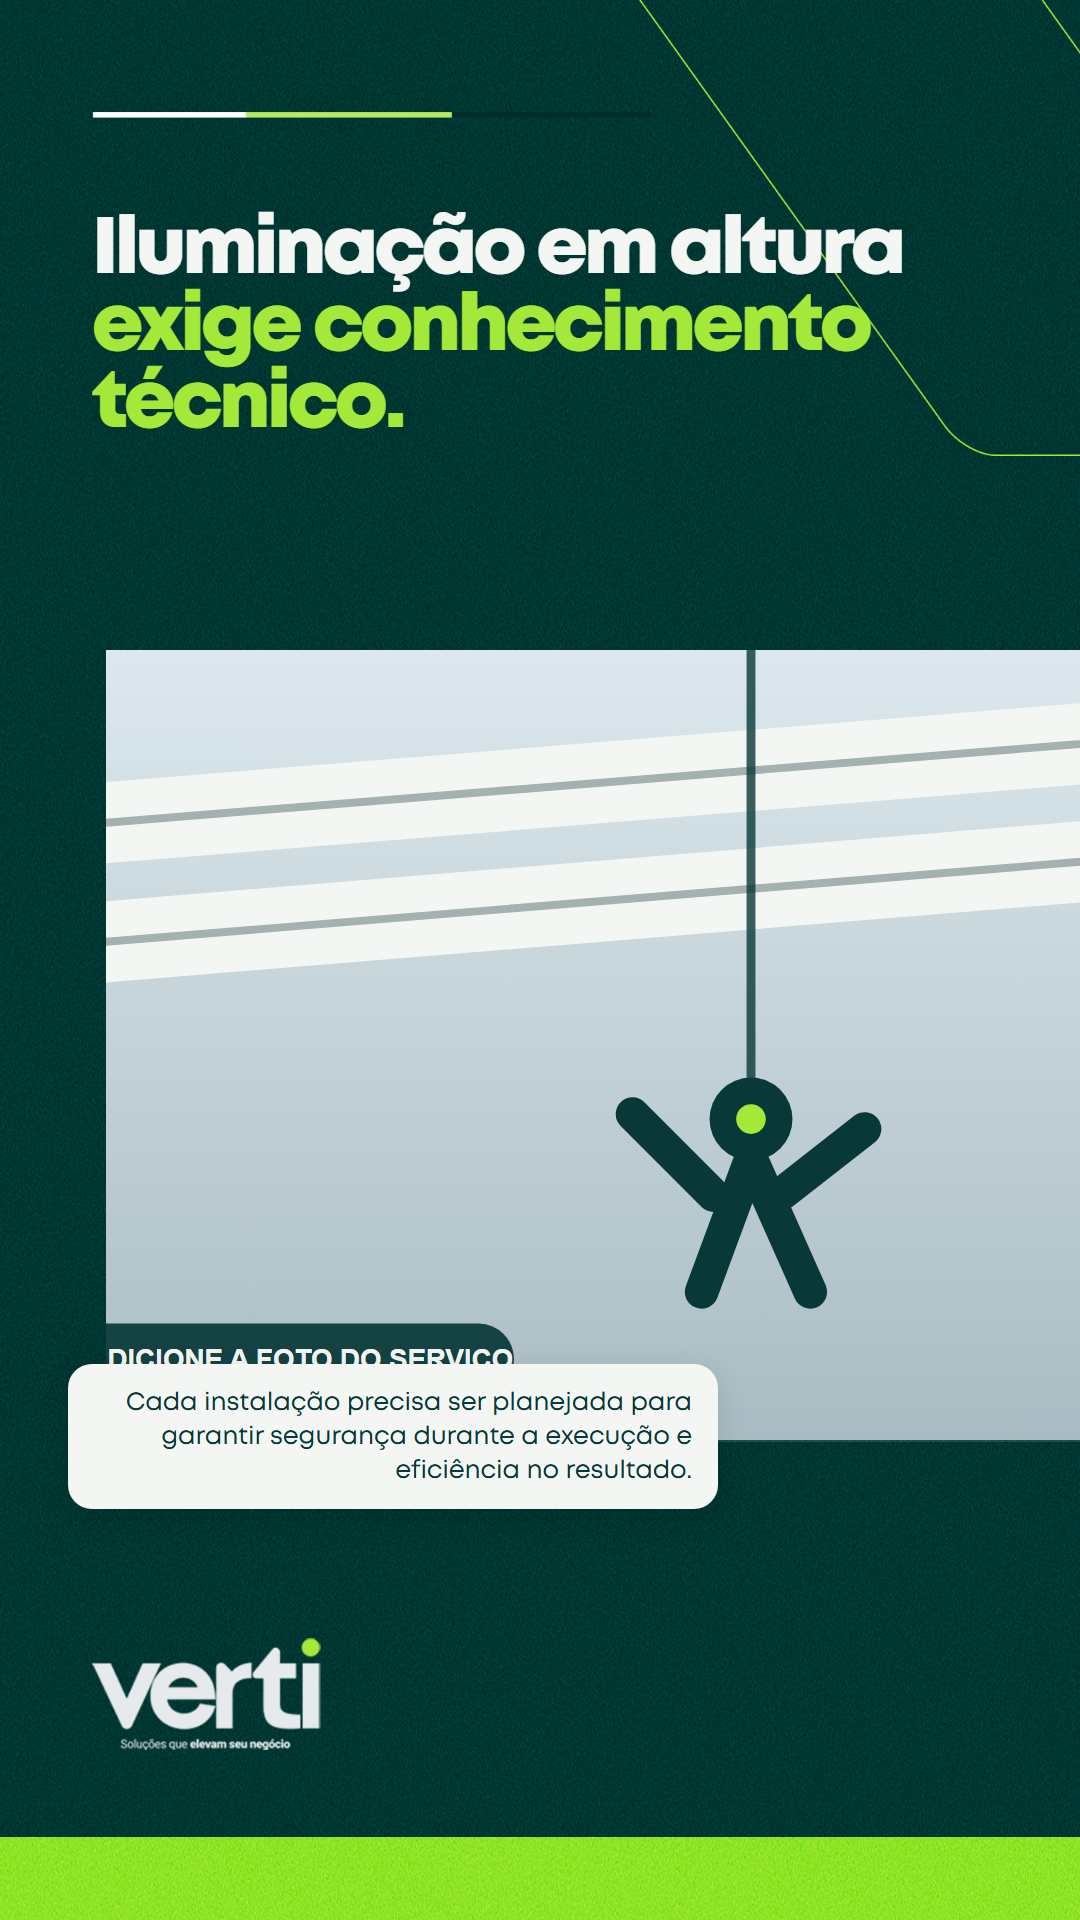
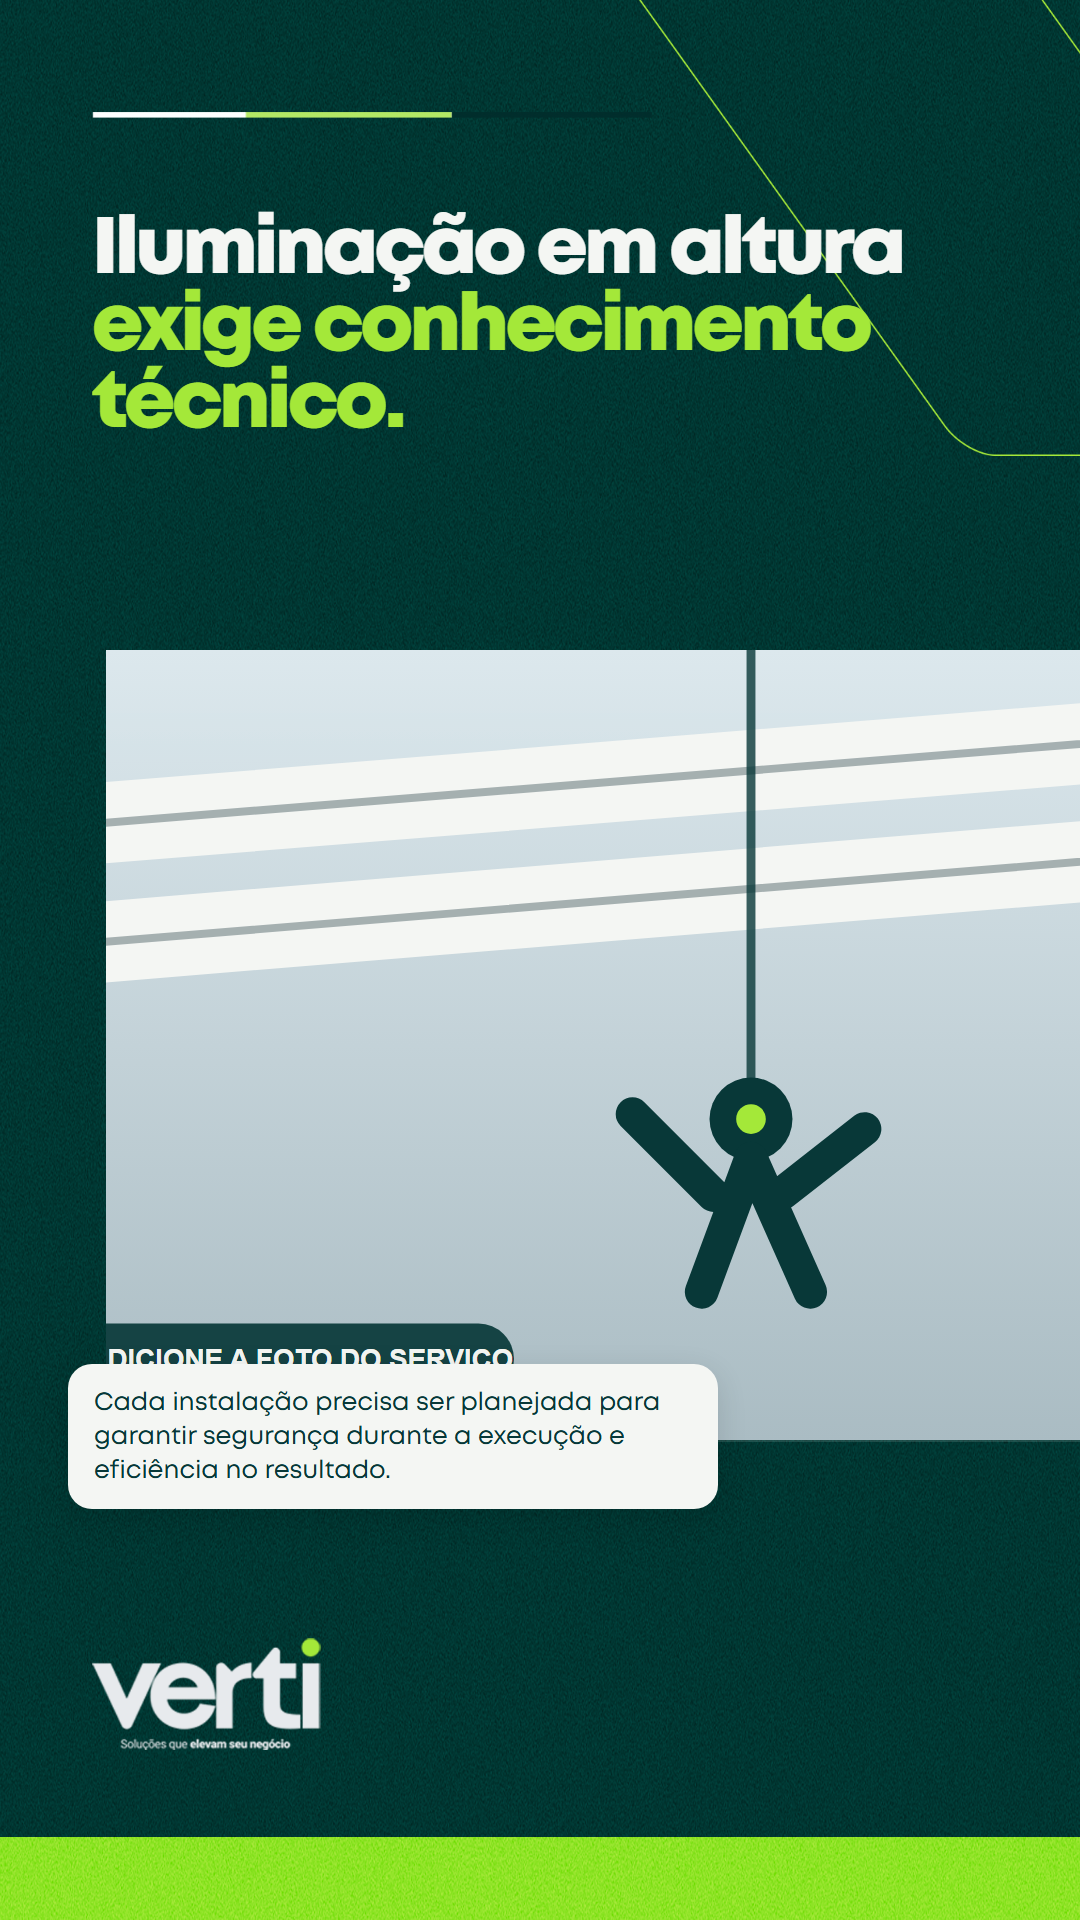
Corrige alinhamento do texto da Verti

Changed region(s): [[0.0917, 0.7188, 0.6417, 0.7812]]

diff --git a/src/lib/visual-engine.ts b/src/lib/visual-engine.ts
@@ -59,7 +59,7 @@ ${getBrandFontFaceCss(brand)}
 .verti-headline span,.verti-headline strong{display:block;}.verti-headline span{color:${brand.colors.light};}.verti-headline strong{color:${brand.colors.accent};font-weight:800;}
 .verti-photo{position:absolute;z-index:3;left:${output === "feed" ? 134 : 106}px;right:0;top:${output === "feed" ? 430 : 650}px;height:${output === "feed" ? 520 : 790}px;background:${brand.colors.surface} url('${escapeHtml(photo)}') ${slide.imagePosition.x}% ${slide.imagePosition.y}%/cover no-repeat;box-shadow:0 2px 0 rgba(255,255,255,.12);}
 .verti-callout{position:absolute;z-index:5;left:${output === "feed" ? 78 : 68}px;top:${output === "feed" ? 858 : 1364}px;width:${output === "feed" ? 565 : 650}px;min-height:${output === "feed" ? 104 : 118}px;box-sizing:border-box;border-radius:24px;background:${brand.colors.light};color:${brand.colors.primary};display:flex;align-items:center;justify-content:center;padding:${output === "feed" ? "20px 22px" : "22px 26px"};font-size:${Math.max(18, Math.min(output === "feed" ? 25 : 27, bodyFit.fontSize))}px;line-height:1.35;font-weight:400;box-shadow:0 8px 30px rgba(0,0,0,.12);}
-.verti-callout-text{display:block;width:100%;margin:auto;text-align:right}
+.verti-callout-text{display:block;width:100%;margin:auto;text-align:left}
 .verti-logo{position:absolute;z-index:4;left:${output === "feed" ? 78 : 92}px;bottom:${output === "feed" ? 102 : 170}px;width:${output === "feed" ? 245 : 285}px;height:${output === "feed" ? 96 : 112}px;object-fit:contain;object-position:left center;}
 .verti-overflow{position:absolute;z-index:7;right:25px;bottom:25px;padding:8px 12px;border-radius:8px;background:#fff;color:#8a2d1d;font:700 16px Arial,sans-serif;}
   </style><main class="verti-slide"><img class="verti-accent-line" src="${escapeHtml(accentLine)}" alt=""><img class="verti-outline" src="${escapeHtml(outline)}" alt=""><h1 class="verti-headline"><span>${escapeHtml(headline.lead)}</span>${headline.accent ? `<strong>${escapeHtml(headline.accent)}</strong>` : ""}</h1><div class="verti-photo" role="img" aria-label="${escapeHtml(slide.content.visualIntent || "Imagem do serviço Verti")}"></div>${support ? `<div class="verti-callout"><span class="verti-callout-text">${escapeHtml(support)}</span></div>` : ""}<img class="verti-logo" src="${escapeHtml(logo.path)}" alt="${escapeHtml(brand.name)}">${headlineFit.overflow || bodyFit.overflow ? `<div class="verti-overflow">Revise o tamanho do texto</div>` : ""}</main>`;

diff --git a/src/lib/__tests__/verti-visual.test.ts b/src/lib/__tests__/verti-visual.test.ts
@@ -60,7 +60,7 @@ describe("aparência da Verti · Opção 01", () => {
     expect(feedHtml).not.toContain("↗");
     expect(feedHtml).toMatch(/\.verti-callout\{[^}]*font-weight:400/);
     expect(feedHtml).toMatch(/\.verti-callout\{[^}]*line-height:1\.35/);
-    expect(feedHtml).toMatch(/\.verti-callout-text\{[^}]*text-align:right/);
+    expect(feedHtml).toMatch(/\.verti-callout-text\{[^}]*text-align:left/);
     expect(storyHtml).toMatch(/\.verti-headline\{[^}]*font-size:80px/);
 
     const [feed, story] = await Promise.all([
